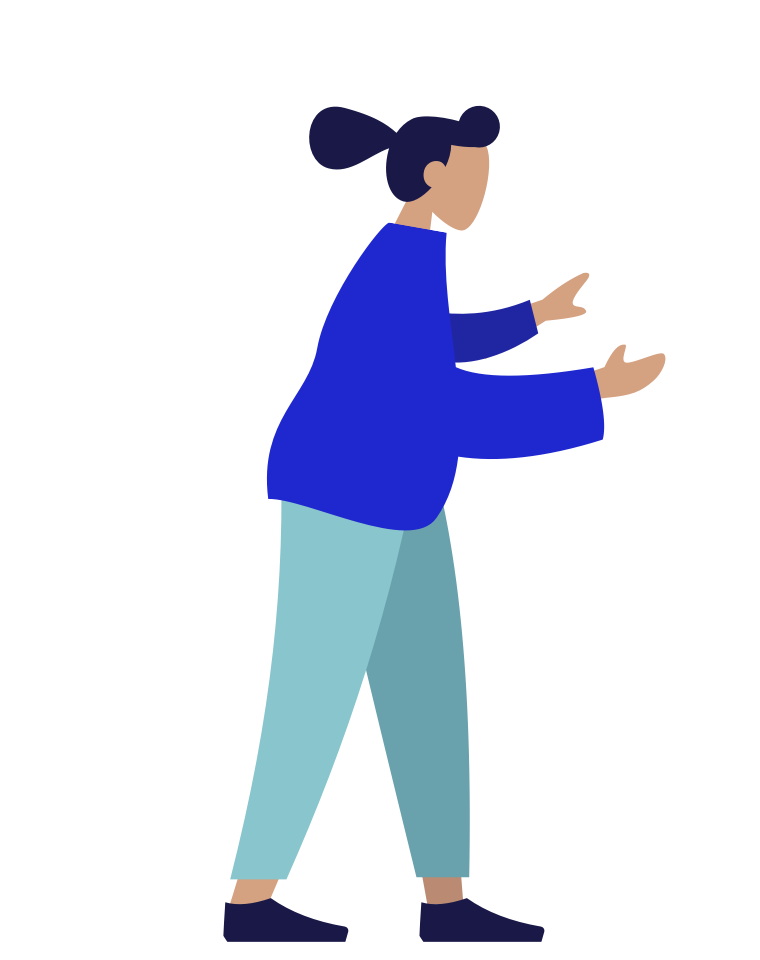
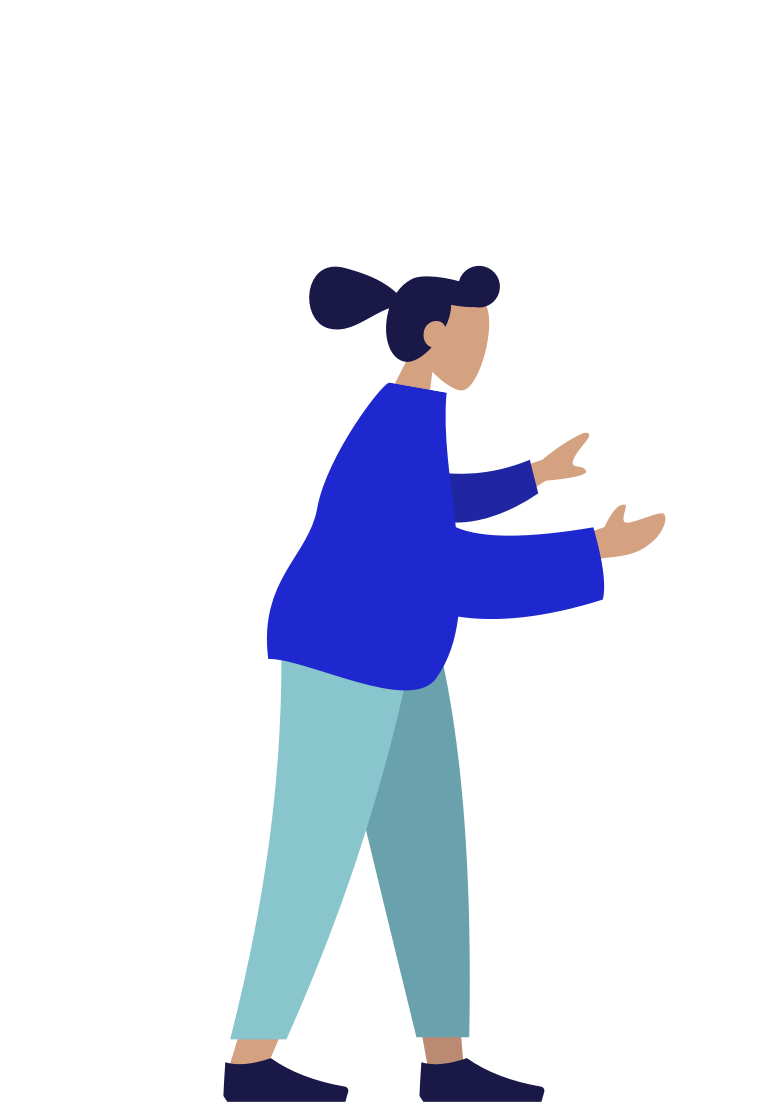
Added padding to images so they show up nicer during onboarding. Tweaked some other UI stuff with onboarding on each page such as text fonts/colors and using listviews instead of columns.

Changed region(s): [[0.2724, 0.0938, 0.8776, 1.0], [0.5447, 0.9062, 0.7263, 1.0]]

diff --git a/lib/widgets/onboarding/stength_info.dart b/lib/widgets/onboarding/stength_info.dart
@@ -2,7 +2,12 @@ import 'package:flutter/material.dart';
 import 'package:scoped_model/scoped_model.dart';
 import 'package:teamup_app/models/onboarding_model.dart';
 
-enum Strengths { strategicThinking, influencing, executing, relationshipBuilding }
+enum Strengths {
+  strategicThinking,
+  influencing,
+  executing,
+  relationshipBuilding
+}
 
 class StrengthInfoTab extends StatefulWidget {
   @override
@@ -10,7 +15,6 @@ class StrengthInfoTab extends StatefulWidget {
 }
 
 class _StrengthInfoTabState extends State<StrengthInfoTab> {
-
   Strengths _strength;
 
   @override
@@ -39,88 +43,126 @@ class _StrengthInfoTabState extends State<StrengthInfoTab> {
           child: new ListView(
             scrollDirection: Axis.horizontal,
             children: <Widget>[
-
+//              Container(
+//                height: 240.0,
+//                child: Column(
+//                  children: <Widget>[
+//                    RadioListTile<Strengths>(
+//                      title: const Text('Strategic Thinking'),
+//                      value: Strengths.strategicThinking,
+//                      groupValue: _strength,
+//                      onChanged: (Strengths value) {
+//                        setState(() {
+//                          _strength = value;
+//                          ScopedModel.of<OnboardingModel>(context,
+//                                  rebuildOnChange: false)
+//                              .strengths = value.toString();
+//                        });
+//                      },
+//                    ),
+//                    Image.asset('assets/thinking.png')
+//                  ],
+//                ),
+//              ),
               Container(
                 width: 240.0,
+                alignment: Alignment.topCenter,
                 decoration: new BoxDecoration(
                   image: DecorationImage(
-                    image: new AssetImage(
-                        'assets/thinking.png'),
+                    image: new AssetImage('assets/thinking.png'),
                     fit: BoxFit.contain,
+                    alignment: Alignment.bottomCenter
                   ),
-                  shape: BoxShape.circle,
+                  shape: BoxShape.rectangle,
                 ),
                 child: new RadioListTile<Strengths>(
                   title: const Text('Strategic Thinking'),
                   value: Strengths.strategicThinking,
                   groupValue: _strength,
-                  onChanged: (Strengths value) { setState(() { _strength = value;
-                  ScopedModel.of<OnboardingModel>(context, rebuildOnChange: false).strengths = value.toString();}); },
+                  onChanged: (Strengths value) {
+                    setState(() {
+                      _strength = value;
+                      ScopedModel.of<OnboardingModel>(context,
+                              rebuildOnChange: false)
+                          .strengths = value.toString();
+                    });
+                  },
                 ),
               ),
               Container(
                 width: 240.0,
+                alignment: Alignment.topCenter,
                 decoration: new BoxDecoration(
                   image: DecorationImage(
-                    image: new AssetImage(
-                        'assets/influencing.png'),
+                    image: new AssetImage('assets/influencing.png'),
                     fit: BoxFit.contain,
-                    alignment: Alignment(1.0, 1.0),
+                    alignment: Alignment.bottomCenter,
                   ),
-                  shape: BoxShape.circle,
+                  shape: BoxShape.rectangle,
                 ),
                 child: new RadioListTile<Strengths>(
                   title: const Text('Influencing'),
                   value: Strengths.influencing,
                   groupValue: _strength,
-                  onChanged: (Strengths value) { setState(() { _strength = value;
-                  ScopedModel.of<OnboardingModel>(context, rebuildOnChange: false).strengths = value.toString();}); },
+                  onChanged: (Strengths value) {
+                    setState(() {
+                      _strength = value;
+                      ScopedModel.of<OnboardingModel>(context,
+                              rebuildOnChange: false)
+                          .strengths = value.toString();
+                    });
+                  },
                 ),
               ),
               Container(
                 width: 240.0,
                 decoration: new BoxDecoration(
                   image: DecorationImage(
-                    image: new AssetImage(
-                        'assets/executing.png'),
-                    fit: BoxFit.fill,
+                    image: new AssetImage('assets/executing.png'),
+                    fit: BoxFit.contain,
                   ),
-                  shape: BoxShape.circle,
+                  shape: BoxShape.rectangle,
                 ),
                 child: new RadioListTile<Strengths>(
                   title: const Text('Executing'),
                   value: Strengths.executing,
                   groupValue: _strength,
-                  onChanged: (Strengths value) { setState(() { _strength = value;
-                  ScopedModel.of<OnboardingModel>(context, rebuildOnChange: false).strengths = value.toString();}); },
+                  onChanged: (Strengths value) {
+                    setState(() {
+                      _strength = value;
+                      ScopedModel.of<OnboardingModel>(context,
+                              rebuildOnChange: false)
+                          .strengths = value.toString();
+                    });
+                  },
                 ),
               ),
               Container(
                 width: 240.0,
                 decoration: new BoxDecoration(
                   image: DecorationImage(
-                    image: new AssetImage(
-                        'assets/relationbuilding.png'),
-                    fit: BoxFit.fill,
+                    image: new AssetImage('assets/relationbuilding.png'),
+                    fit: BoxFit.contain,
                   ),
-                  shape: BoxShape.circle,
+                  shape: BoxShape.rectangle,
                 ),
-                child: new  RadioListTile<Strengths>(
+                child: new RadioListTile<Strengths>(
                   title: const Text('Relationship Building'),
                   value: Strengths.relationshipBuilding,
                   groupValue: _strength,
-                  onChanged: (Strengths value) { setState(() { _strength = value;
-                  ScopedModel.of<OnboardingModel>(context, rebuildOnChange: false).strengths = value.toString();}); },
+                  onChanged: (Strengths value) {
+                    setState(() {
+                      _strength = value;
+                      ScopedModel.of<OnboardingModel>(context,
+                              rebuildOnChange: false)
+                          .strengths = value.toString();
+                    });
+                  },
                 ),
               ),
-
-
-
             ],
           ),
         ),
-
-
         Container(
           height: 32.0,
         )

diff --git a/lib/widgets/onboarding/icebreaker_info.dart b/lib/widgets/onboarding/icebreaker_info.dart
@@ -18,8 +18,8 @@ class _IcebreakerInfoTabState extends State<IcebreakerInfoTab> {
 
   @override
   Widget build(BuildContext context) {
-    return Column(
-      crossAxisAlignment: CrossAxisAlignment.stretch,
+    return ListView(
+//      crossAxisAlignment: CrossAxisAlignment.stretch,
       children: <Widget>[
         Container(
           height: 32.0,
@@ -36,19 +36,20 @@ class _IcebreakerInfoTabState extends State<IcebreakerInfoTab> {
           child: new ListView(
             scrollDirection: Axis.vertical,
             children: <Widget>[
-
               Container(
                 height: 180.0,
+                alignment: Alignment.center,
                 decoration: new BoxDecoration(
                   image: DecorationImage(
                     image: new AssetImage(
-                        'assets/avengers.jpg'),
+                        'assets/avengers.jpg',),
                     fit: BoxFit.fill,
                   ),
                   shape: BoxShape.rectangle,
                 ),
                 child: new RadioListTile<int>(
-                  title: const Text('Marvel'),
+                  activeColor: Colors.white,
+                  title: const Text('Marvel', style: TextStyle(color: Colors.white, fontWeight: FontWeight.bold, fontSize: 48.0),),
                   value: 0,
                   groupValue: _res,
                   onChanged: (int value) { setState(() { _res = value;
@@ -57,6 +58,7 @@ class _IcebreakerInfoTabState extends State<IcebreakerInfoTab> {
               ),
               Container(
                 height: 180.0,
+                alignment: Alignment.center,
                 decoration: new BoxDecoration(
                   image: DecorationImage(
                     image: new AssetImage(
@@ -66,8 +68,9 @@ class _IcebreakerInfoTabState extends State<IcebreakerInfoTab> {
                   shape: BoxShape.rectangle,
                 ),
                 child: new RadioListTile<int>(
-                  title: const Text('DC'),
+                  title: const Text('DC',style: TextStyle(color: Colors.white, fontWeight: FontWeight.bold, fontSize: 48.0)),
                   value: 1,
+                  activeColor: Colors.white,
                   groupValue: _res,
                   onChanged: (int value) { setState(() { _res = value;
                   ScopedModel.of<OnboardingModel>(context, rebuildOnChange: false).iceBreakers = _res;}); },

diff --git a/lib/widgets/onboarding/personal_info.dart b/lib/widgets/onboarding/personal_info.dart
@@ -77,8 +77,8 @@ class _PersonalInfoTabState extends State<PersonalInfoTab> {
 
   @override
   Widget build(BuildContext context) {
-    return Column(
-      crossAxisAlignment: CrossAxisAlignment.stretch,
+    return ListView(
+//      crossAxisAlignment: CrossAxisAlignment.stretch,
       children: <Widget>[
         Container(
           height: 32.0,
